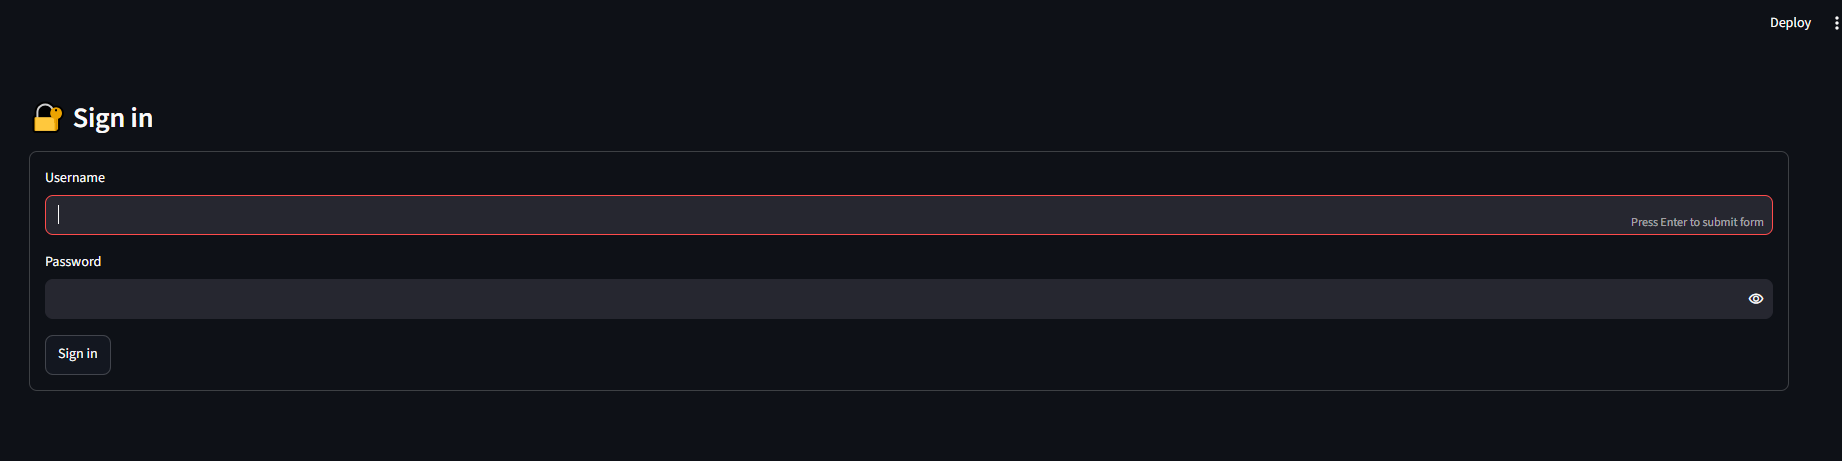
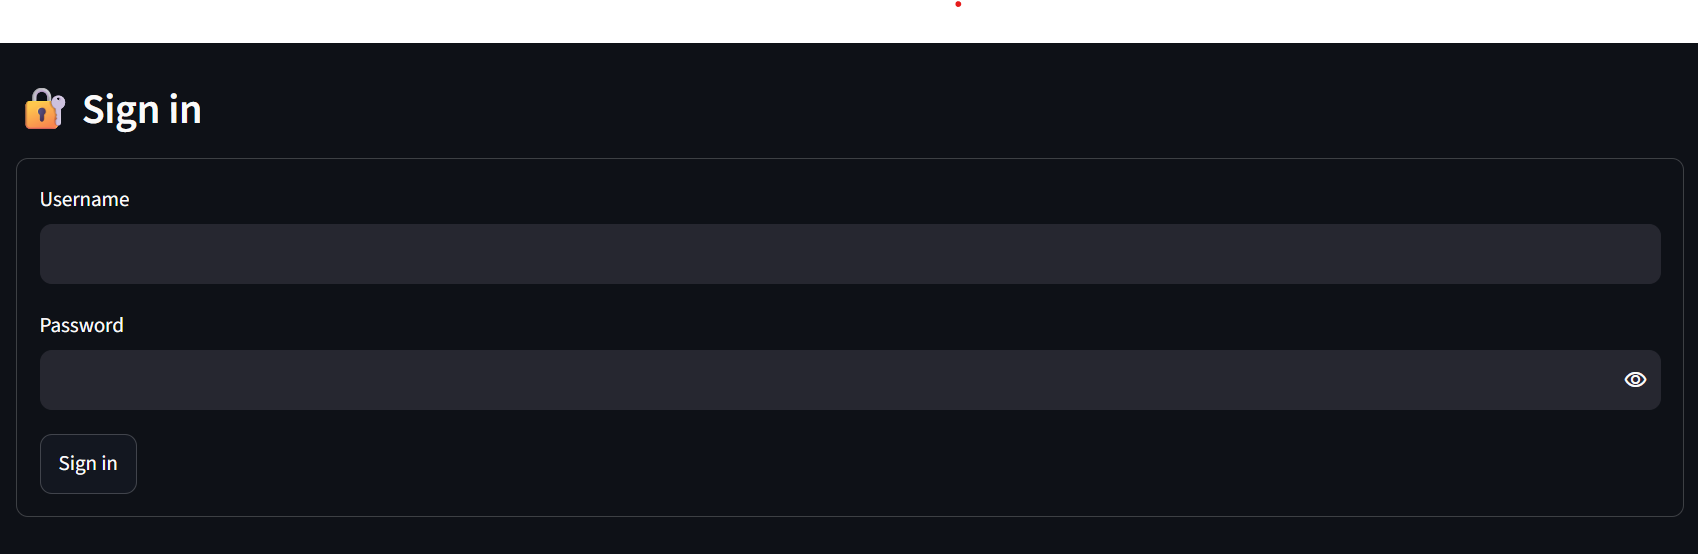
Updates from Overleaf

diff --git a/chapters/chapter04.tex b/chapters/chapter04.tex
@@ -269,24 +269,29 @@ La interfaz se ha construido como una aplicación conversacional sencilla, con d
 El acceso a ambas pantallas queda protegido por la autenticación descrita en la sección anterior. La Figura~\ref{fig:frontend-login} muestra la pantalla de inicio de sesión, previa a cualquier otra funcionalidad.
 
 \begin{figure}[H]
-\centering
-\includegraphics[width=0.9\textwidth]{assets/frontend_login.png}
-\caption{Pantalla de inicio de sesión del frontend.}
-\label{fig:frontend-login}
+    \centering
+    \makebox[\textwidth][c]{%
+        \includegraphics[
+            width=1.2\textwidth,,
+            clip
+        ]{assets/frontend_login.png}
+    }
+    \caption{Pantalla de inicio de sesión del frontend.}
+    \label{fig:frontend-login}
 \end{figure}
 
 Tras autenticarse, el profesional llega por defecto a la pantalla de conversación (Figura~\ref{fig:frontend-orchestrator-vacio}), donde un único campo de texto invita a describir el viaje en lenguaje natural. La Figura~\ref{fig:frontend-orchestrator-prompt} muestra un ejemplo real de petición introducida por el usuario, que el agente orquestador (Sección~4.5) interpreta para extraer cliente, origen, destino, fechas e intereses antes de activar al resto de agentes.
 
 \begin{figure}[H]
 \centering
-\includegraphics[width=0.9\textwidth]{assets/frontend_orchestrator_vacio.PNG}
+\includegraphics[width=1\textwidth]{assets/image.PNG}
 \caption{Pantalla de conversación (Orchestrator) al iniciar una sesión.}
 \label{fig:frontend-orchestrator-vacio}
 \end{figure}
 
 \begin{figure}[H]
 \centering
-\includegraphics[width=0.9\textwidth]{assets/frontend_orchestrator_prompt.png}
+\includegraphics[width=1\textwidth]{assets/frontend_orchestrator_prompt.png}
 \caption{Ejemplo de petición de un nuevo viaje introducida en lenguaje natural.}
 \label{fig:frontend-orchestrator-prompt}
 \end{figure}
@@ -295,7 +300,7 @@ Una vez generada, cada propuesta queda disponible en la pantalla de histórico (
 
 \begin{figure}[H]
 \centering
-\includegraphics[width=0.9\textwidth]{assets/frontend_dashboard.PNG}
+\includegraphics[width=1\textwidth]{assets/frontend_dashboard.PNG}
 \caption{Pantalla de histórico (Dashboard) con las propuestas generadas por el equipo.}
 \label{fig:frontend-dashboard}
 \end{figure}

diff --git a/backmatter/annex1_business_case.tex b/backmatter/annex1_business_case.tex
@@ -18,7 +18,7 @@ En una agencia de viajes, la información necesaria para montar una propuesta --
 \end{tfmbullets}
 
 \TFMAnnexSection{Una Fuente Única de Verdad}
-Uno de los efectos colaterales más relevantes del proyecto, más allá de la generación de la propuesta en sí, es que obliga a consolidar toda la documentación de proveedores en un único repositorio indexado y consultable. Esto elimina el problema habitual de varias versiones del mismo tarifario circulando por distintos correos y carpetas, y hace que cualquier miembro del equipo (no solo quien recibió originalmente el documento) pueda acceder a la misma información actualizada. Además, al fundamentar cada respuesta en fragmentos concretos de la documentación (Capítulo 4), el sistema conserva la trazabilidad de qué fuente respalda cada dato de la propuesta, algo que un proceso manual basado en la memoria de cada empleado no puede garantizar.
+Uno de los efectos colaterales más relevantes del proyecto, más allá de la generación de la propuesta en sí, es que obliga a consolidar toda la documentación de proveedores en un único repositorio indexado y consultable. Esto elimina el problema habitual de varias versiones del mismo tarifario circulando por distintos correos y carpetas, y hace que cualquier miembro del equipo (no solo quien recibió originalmente el documento)                                                                                                                                                                                                                                                                                                                                                                                                                                                                                                                                                                                                                     pueda acceder a la misma información actualizada. Además, al fundamentar cada respuesta en fragmentos concretos de la documentación (Capítulo 4), el sistema conserva la trazabilidad de qué fuente respalda cada dato de la propuesta, algo que un proceso manual basado en la memoria de cada empleado no puede garantizar.
 
 \TFMAnnexSection{Modelo de Ahorro de Tiempo y ROI}
 La Tabla \ref{tab:roi-supuestos} recoge un modelo paramétrico sencillo para estimar el ahorro económico mensual. Los cuatro parámetros de la tabla dependen de cada agencia (tiempo manual, coste laboral y volumen de propuestas) y siguen siendo un ejemplo ilustrativo que debe sustituirse por datos reales de la agencia; el resto de esta sección, en cambio, incorpora datos reales de coste y latencia medidos sobre el sistema en producción (Capítulo~5).